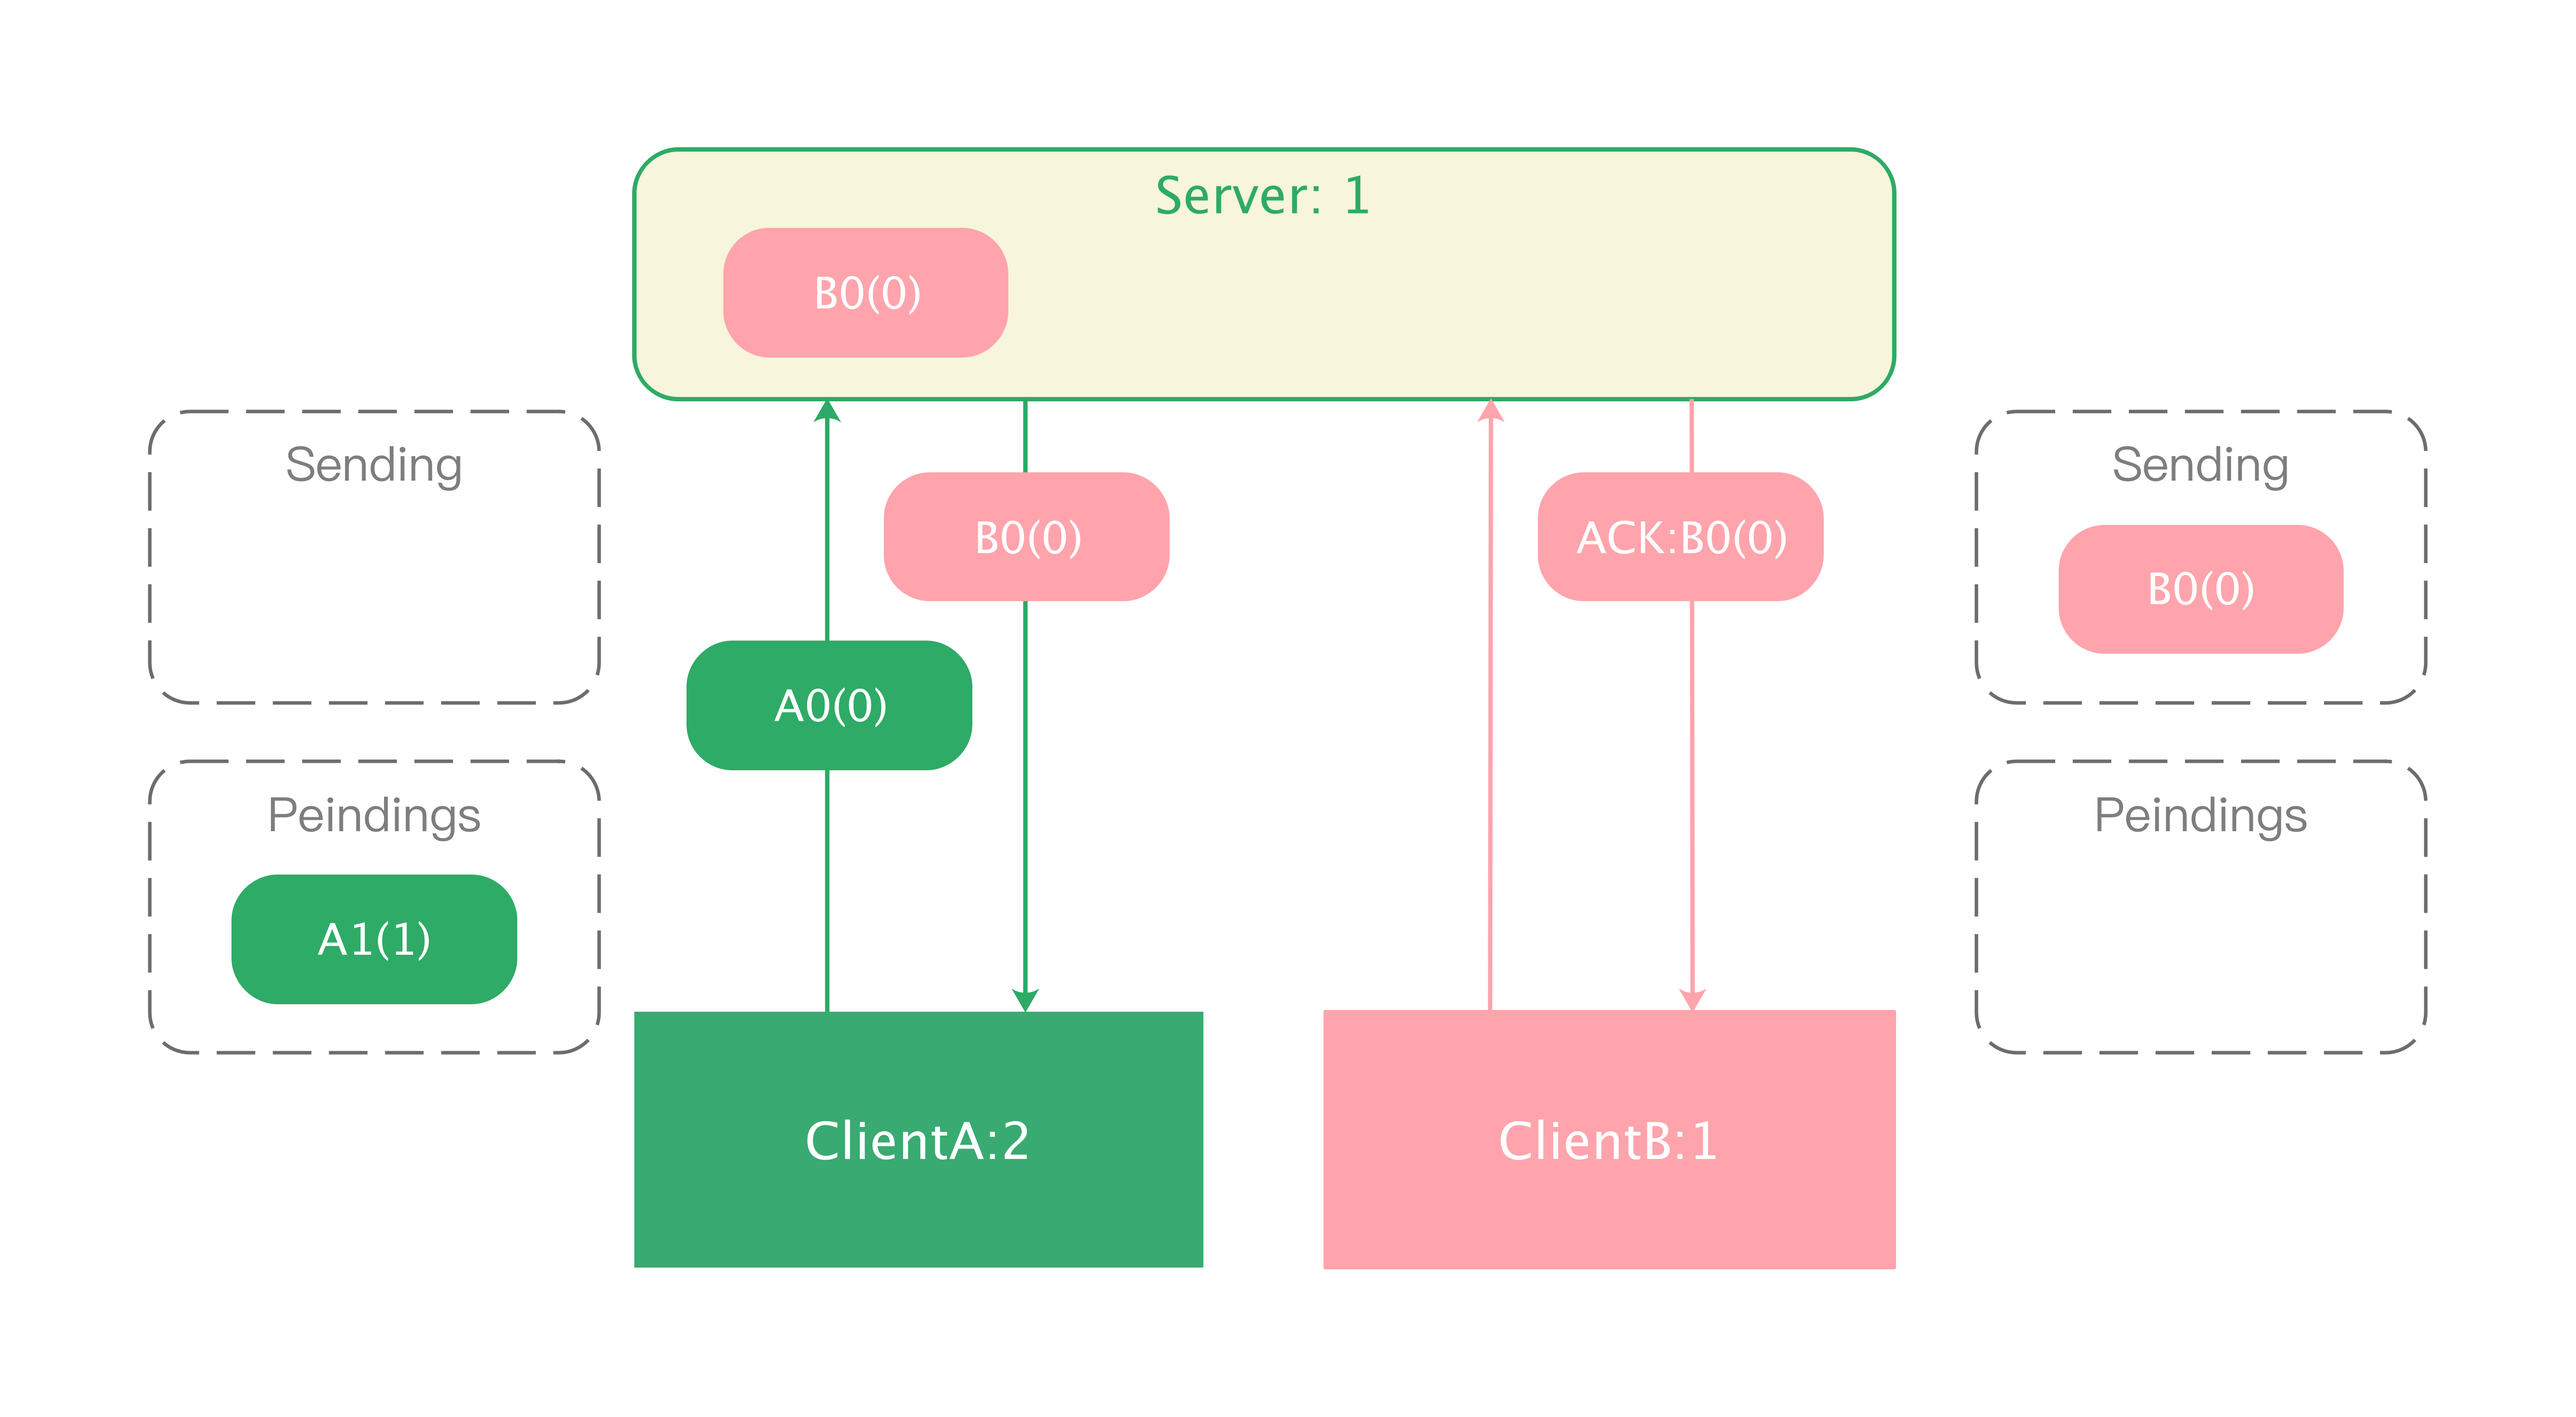
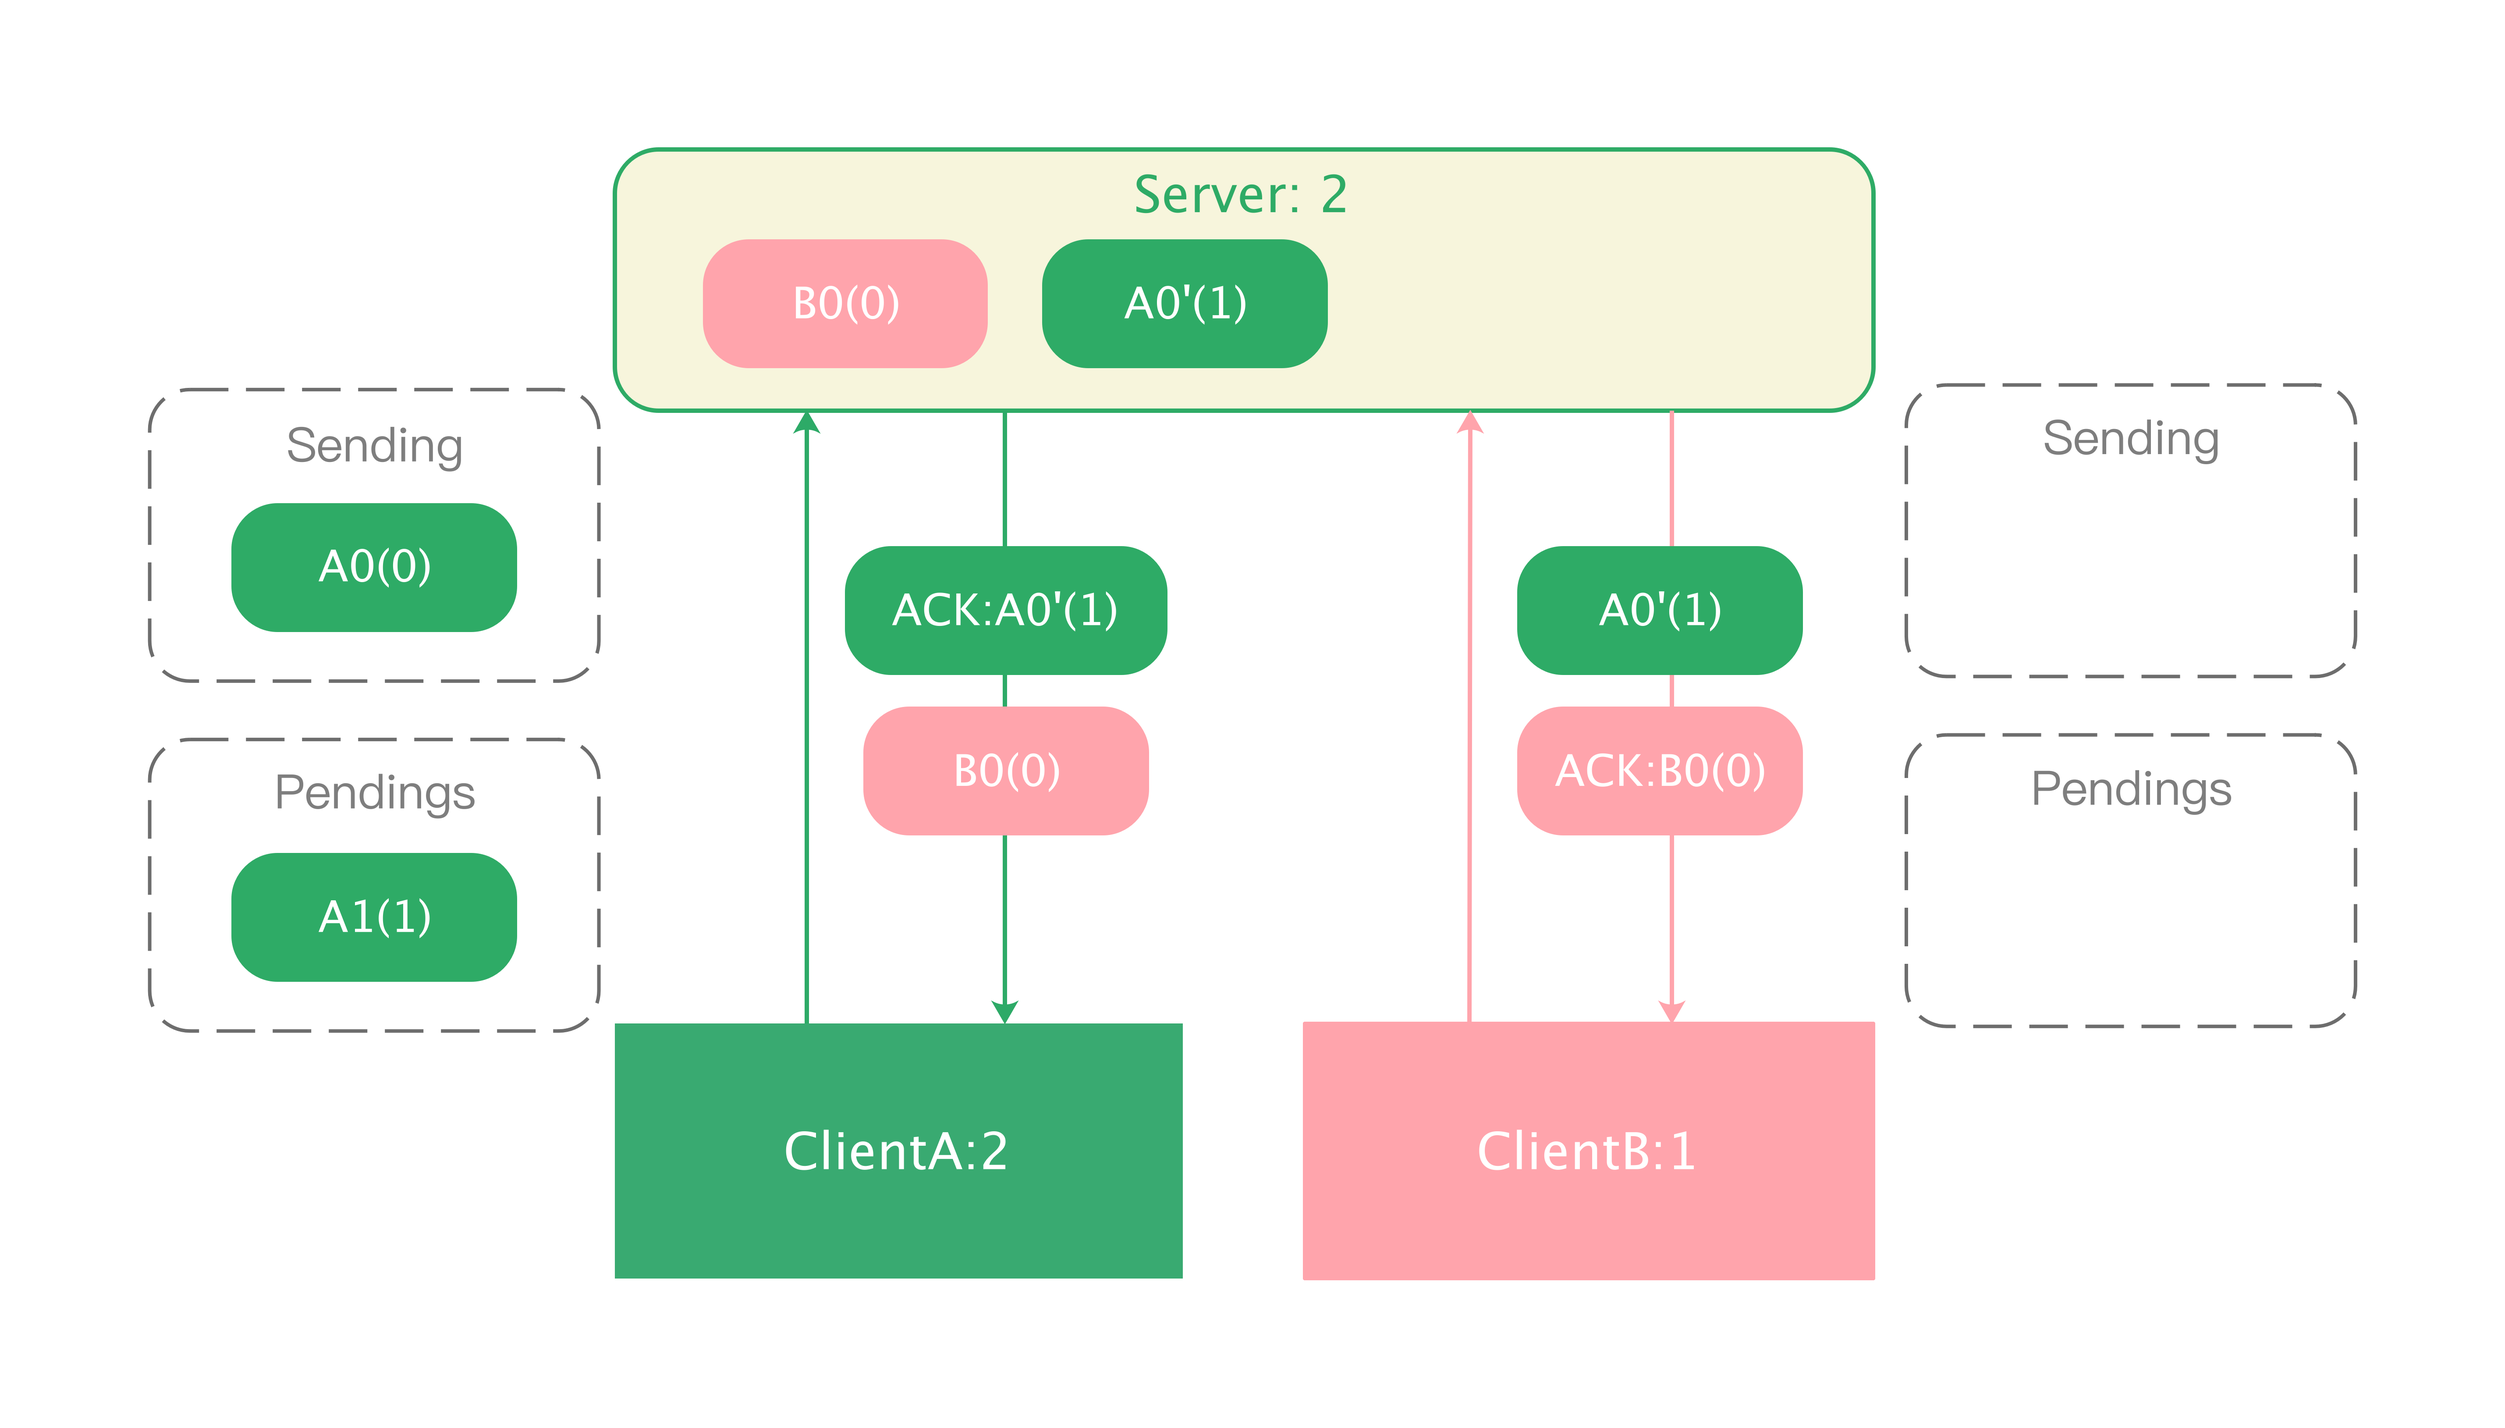
image fix

diff --git a/collaborate-engine.md b/collaborate-engine.md
@@ -4,14 +4,9 @@
 
 前文展示的 A、B 用户同步操作的示例还较为简单，实际工程中，我们还需要服务端来收集、派发、存储各个客户端的 OP，被存储的 OP 代表了可连续应用的操作序列。
 
-
-
 假定文档的初始状态为 S(0,0)。且：
 
-
-
 * 服务端已经存储了 B 用户的三个操作，B(0,0)，B(0,1), B(0,2)，状态步进到了 S(0, 3)。
-
 * A 用户也在 S(0,0) 状态下打开文档，执行了四个操作 A(0,0)，A(1,0), A(2,0), A(3,0)，状态到达了 S(4,0)
 
 
@@ -21,7 +16,6 @@
 <p align="center">
   <img src="./statics/ot-sys-1-1.png" width="800" />
 </p>
-
 
 
 A 获得服务端下发的 OP 后，进行 OT：
@@ -131,30 +125,31 @@ A 获得服务端下发的 OP 后，进行 OT：
 - 客户端 B 本地产生了一个操作 B0(0)
 
 <p align="center">
-  <img src="./statics/ot-sys-3-1.png" width="800" />
+  <img src="./statics/ot-sys-3-0.png" width="800" />
 </p>
 
 首先，B0(0) 被提交到服务端，由于数据库中 OP 序列为空，因此 B0(0) 可以直接落库，服务端将版本更新为 1。并将 B0(0) 发给其他客户端，然后服务端会发送 ACK（Acknowledgement Character）到 B，告诉 B：“你的 OP 服务端已经收到”：
 <p align="center">
-  <img src="./statics/ot-sys-3-2.png" width="800" />
+  <img src="./statics/ot-sys-3-1.png?123" width="800" />
 </p>
 在客户端 A，提交了 A0(0)，服务端检测到冲突，执行 OT，将获得的 A0'(1) 落库，更新服务端版本为 2，并将 A0'(1) 分发到其他客户端。
 <p align="center">
-  <img src="./statics/ot-sys-3-3.png" width="800" />
+  <img src="./statics/ot-sys-3-2.png?123" width="800" />
 </p>
-在客户端 A，也收到了服务端派发的 B0(0)，A 检测到冲突，基于 [A(0), A(1)] 对 B0(0) 做变换，得到 B0'(2)，更新版本为 3。
+在客户端 A，也收到了服务端派发的 B0(0)，A 检测到冲突，基于 [A(0), A(1)] 对 B0(0) 做变换，得到 B0'(2)，更新本地版本为 3。
 <p align="center">
   <img src="./statics/ot-sys-3-4.png" width="800" />
 </p>
-紧接着 A 受到了 A0'(1) 的 ACK，更新版本为 2，继续提交 A1(2)（因为客户端版本已更新为 2，所以此时提交的操作捎带的客户端版本为 2），由于服务端当前版本也是 2，因此 A1(2) 可以直接落库，服务端更新版本为 3。
+紧接着  A 受到了 A0'(1) 的 ACK，更新本地版本为 2，现在继续提交 A1(2)（因为客户端版本已更新为 2，所以此时提交的操作捎带的客户端版本为 2）：
 <p align="center">
   <img src="./statics/ot-sys-3-5.png" width="800" />
 </p>
-同理，B 客户端受到 ACK 以后也更新自己的版本，
+
+同理，B 客户端受到 ACK 以后也更新自己的版本为 1，紧接着到来的 A0'(1) 也可直接应用，更新版本到2。由于服务端当前版本也是 2，因此 A1(2) 可以直接落库，服务端更新版本为 3。服务端广播 A1(2) 到其它客户端：
 <p align="center">
   <img src="./statics/ot-sys-3-6.png" width="800" />
 </p>
-再收到 A1(2) 之后，能够直接应用，应用后，更新状态为 3。最终各个客户端和服务端到达了一直的版本 3：
+B 再收到 A1(2) 之后，能够直接应用，应用后，更新状态为 3。最终各个客户端和服务端到达了一直的版本 3：
 <p align="center">
   <img src="./statics/ot-sys-3-7.png" width="800" />
 </p>
